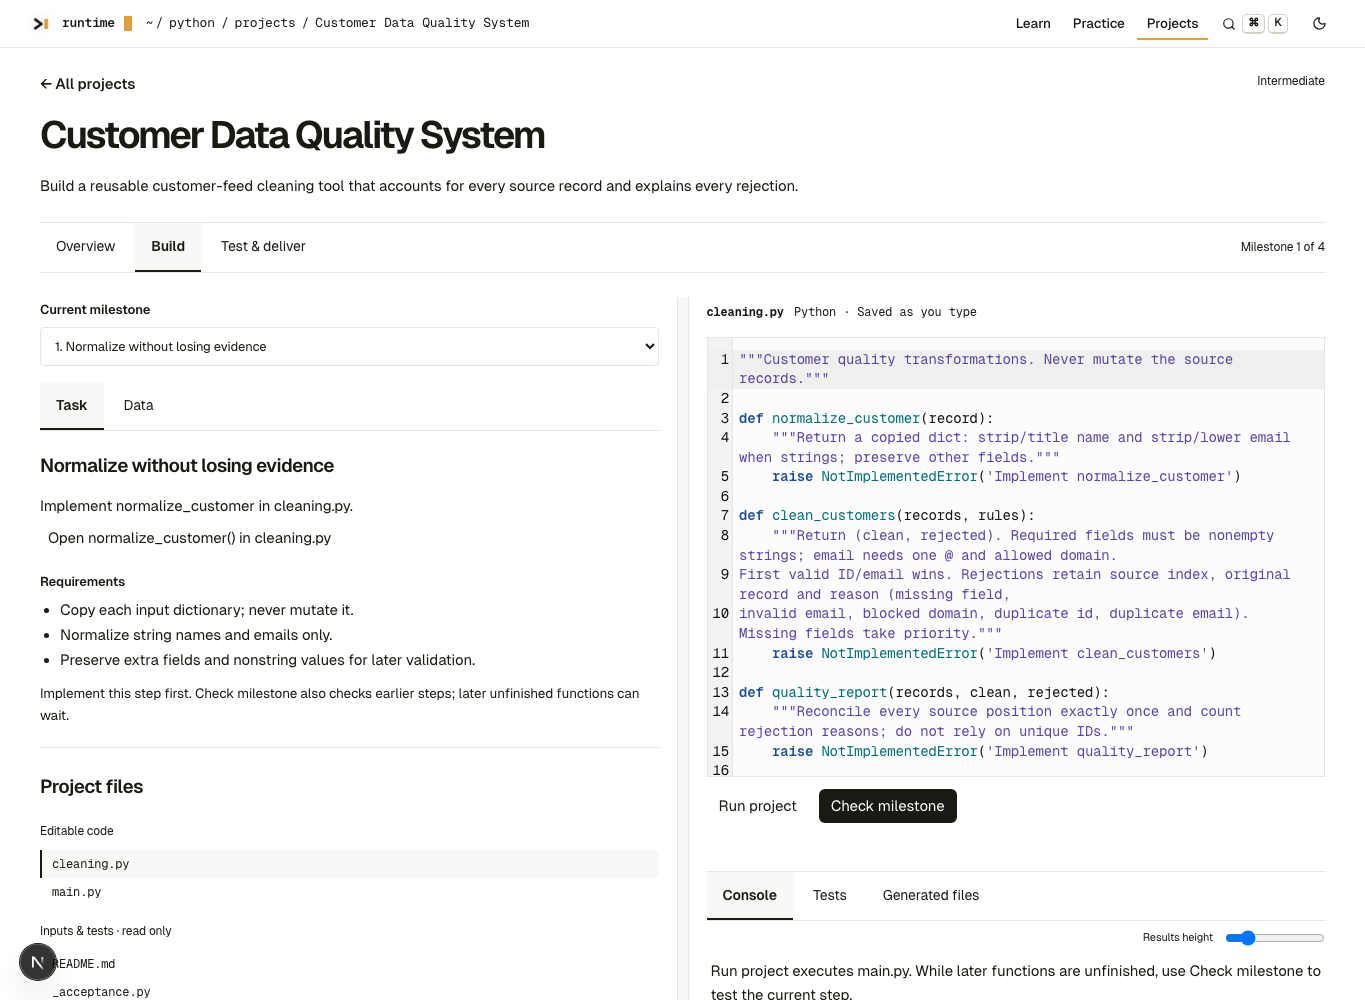
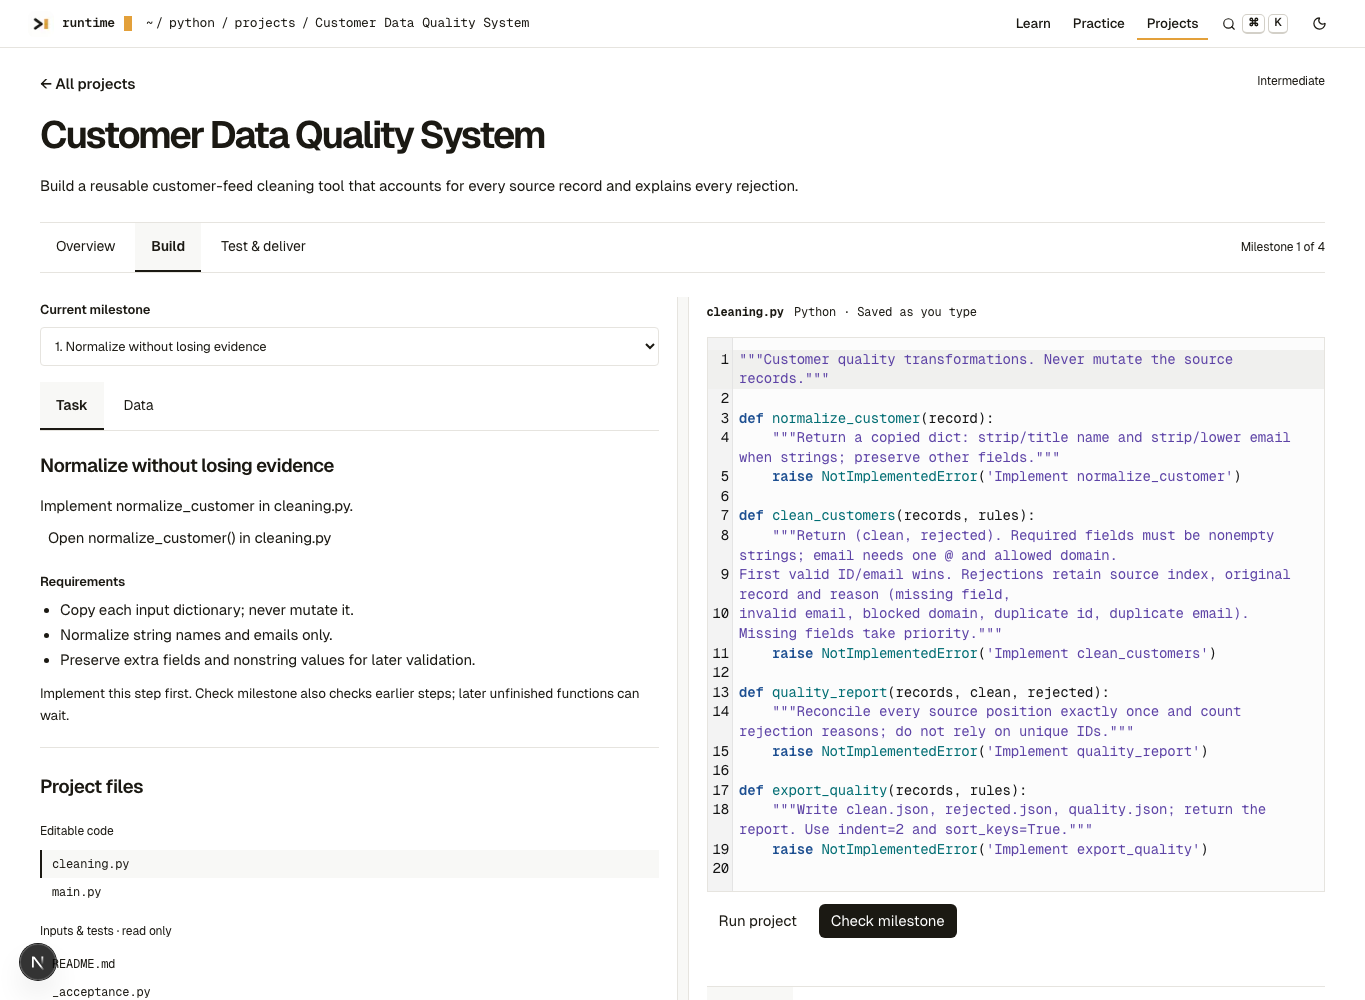
Let project editors grow naturally and remove redundant workspace controls

Changed region(s): [[0.5231, 0.775, 0.9538, 1.0]]

diff --git a/src/features/py/projects-v2/Workspace.tsx b/src/features/py/projects-v2/Workspace.tsx
@@ -24,7 +24,7 @@ export function ProjectWorkspace({project,initialStage}:{project:ProjectV2;initi
  const [runMode,setRunMode]=useState<'run'|'milestone'|'acceptance'>('run');
  const [output,setOutput]=useState<'console'|'tests'|'files'>('console');
  const [dataPath,setDataPath]=useState(project.datasets[0]?.path??'');
- const [paneWidth,setPaneWidth]=useState(50);const [resultsHeight,setResultsHeight]=useState(240);
+ const [paneWidth,setPaneWidth]=useState(50);
  const [focusRequest,setFocusRequest]=useState(0);
  function navigate(next:'overview'|'build'|'finish'){setStage(next);window.history.replaceState(null,'',`#${next}`);window.scrollTo(0,0);}
  useEffect(()=>{const hash=window.location.hash.slice(1);if(hash==='build'||hash==='finish')setStage(hash);else if(initialStage)setStage('build');},[initialStage]);
@@ -64,7 +64,7 @@ export function ProjectWorkspace({project,initialStage}:{project:ProjectV2;initi
  return <Shell subject="python" section="projects" path={[{label:'python',href:'/python'},{label:'projects',href:'/python/projects'},{label:project.title}]}>
  <div className="py-project-v2 pv-project-page">
   <header className="pv-header"><Link className="rx-link" href="/python/projects">← All projects</Link><span>{project.level}</span><h1>{project.title}</h1><p>{project.objective}</p></header>
-  <nav className="pv-stage-nav" aria-label="Project stages">{(['overview','build','finish'] as const).map(value=><button key={value} aria-current={stage===value?'page':undefined} onClick={()=>navigate(value)}>{value==='overview'?'Overview':value==='build'?'Build':'Test & deliver'}</button>)}<span>Milestone {draft.milestone+1} of {project.milestones.length}</span></nav>
+  <nav className="pv-stage-nav" aria-label="Project stages">{(['overview','build','finish'] as const).map(value=><button key={value} aria-current={stage===value?'page':undefined} onClick={()=>navigate(value)}>{value==='overview'?'Overview':value==='build'?'Build':'Test & deliver'}</button>)}{stage==='build'&&<span>Milestone {draft.milestone+1} of {project.milestones.length}</span>}</nav>
   {storageError&&<p className="pv-warning" role="alert">{storageError}</p>}
   {stage==='overview'&&<section className="pv-overview">
    <div className="pv-overview-context"><h2>The project</h2><p>{project.scenario}</p>
@@ -82,15 +82,14 @@ export function ProjectWorkspace({project,initialStage}:{project:ProjectV2;initi
     <div className="pv-tab-bar" role="group" aria-label="Task and data"><button aria-pressed={reference==='task'} onClick={()=>setReference('task')}>Task</button><button aria-pressed={reference==='data'} onClick={()=>setReference('data')}>Data</button></div>
     {reference==='task'?<section className="pv-task"><h2>{current.title}</h2><p>{current.objective}</p>{targetFile&&<button className="rx-btn" onClick={openFunction}>Open {targetFunction}() in {targetFile}</button>}<h3>Requirements</h3><ul>{current.requirements.map(r=><li key={r}>{r}</li>)}</ul><p className="rx-small">Implement this step first. Check milestone also checks earlier steps; later unfinished functions can wait.</p></section>:<section className="pv-inputs"><label htmlFor="project-data">Input file</label><select id="project-data" value={dataPath} onChange={e=>setDataPath(e.target.value)}>{project.datasets.map(d=><option key={d.path} value={d.path}>{d.path}</option>)}</select>{selectedData&&<><h2>{selectedData.path}</h2><p>{selectedData.purpose}</p><p className="rx-small">{selectedData.rows.toLocaleString()} records · {selectedData.format.toUpperCase()} · Fields: {selectedData.schema}</p><DataPreview dataset={selectedData}/><p className="rx-small">{selectedData.rows>5?'First 5 records shown.':'All records shown.'} Inputs are already available to your code.</p><button className="rx-btn" onClick={()=>setDraft(d=>({...d,selected:selectedData.path}))}>Open full input</button><button className="rx-btn" onClick={()=>downloadText(selectedData.path,project.files[selectedData.path])}>Download input</button></>}</section>}
     <section className="pv-files"><h2>Project files</h2><div className="pv-explorer" role="group" aria-label="File explorer"><div><p>Editable code</p>{Object.keys(draft.files).map(name=><button key={name} aria-pressed={draft.selected===name} onClick={()=>setDraft(d=>({...d,selected:name}))}>{name}</button>)}</div><div><p>Inputs & tests · read only</p>{Object.keys(project.files).filter(name=>name!=='_expected.json').map(name=><button key={name} aria-pressed={draft.selected===name} onClick={()=>setDraft(d=>({...d,selected:name}))}>{name}</button>)}</div></div></section>
-    <button className="rx-btn pv-finish-link" onClick={()=>navigate('finish')}>Go to Test & deliver</button>
    </aside>
    <div className="pv-divider" role="separator" aria-label="Resize task and editor columns" aria-orientation="vertical" aria-valuenow={paneWidth} aria-valuemin={25} aria-valuemax={55} tabIndex={0} onKeyDown={e=>{if(e.key==='ArrowLeft'||e.key==='ArrowRight'){e.preventDefault();setPaneWidth(v=>Math.max(25,Math.min(55,v+(e.key==='ArrowRight'?2:-2))));}}} onPointerDown={e=>{e.currentTarget.setPointerCapture(e.pointerId);}} onPointerMove={e=>{if(!e.currentTarget.hasPointerCapture(e.pointerId)||!layout.current)return;const box=layout.current.getBoundingClientRect();setPaneWidth(Math.max(25,Math.min(55,Math.round((e.clientX-box.left)/box.width*100))));}} onPointerUp={e=>e.currentTarget.releasePointerCapture(e.pointerId)}/>
    <section className="pv-work" aria-label="Project workspace">
     <div className="pv-file-head"><b>{draft.selected}</b><span>{editable?'Python · Saved as you type':'Read only · full file'}</span>{!editable&&<button className="rx-btn" onClick={()=>downloadText(draft.selected,text)}>Download full file</button>}</div>
-    {editable?<PyEditor ref={editor} key={draft.selected} value={text} onChange={value=>setDraft(d=>({...d,files:{...d.files,[d.selected]:value}}))} onRun={()=>execute('run')} onCheck={()=>execute('milestone')} label={`${draft.selected}, project Python editor`} height="440px"/>:<textarea className="pv-full-source" aria-label={`${draft.selected}, read-only file`} value={text} readOnly spellCheck={false}/>}
+    {editable?<PyEditor ref={editor} key={draft.selected} value={text} onChange={value=>setDraft(d=>({...d,files:{...d.files,[d.selected]:value}}))} onRun={()=>execute('run')} onCheck={()=>execute('milestone')} label={`${draft.selected}, project Python editor`} minHeight="320px"/>:<pre className="pv-full-source" role="textbox" aria-label={`${draft.selected}, read-only file`} aria-readonly="true" tabIndex={0}>{text}</pre>}
     <div className="pv-actions"><button className="rx-btn" disabled={busy} onClick={()=>execute('run')}>Run project</button><button className="rx-btn primary" disabled={busy} onClick={()=>execute('milestone')}>Check milestone</button></div>
     <p className="pv-status" role="status">{busy?'Running Python…':notice}{run&&stale?' Code changed since this run. Check again.':''}</p>
-    <section className="pv-output"><div className="pv-tab-bar" role="group" aria-label="Output views">{(['console','tests','files'] as const).map(value=><button key={value} aria-pressed={output===value} onClick={()=>setOutput(value)}>{value==='console'?'Console':value==='tests'?'Tests':'Generated files'}</button>)}</div><label className="pv-results-size">Results height<input aria-label="Results height" type="range" min="160" max="600" step="20" value={resultsHeight} onChange={e=>setResultsHeight(Number(e.target.value))}/></label><div className="pv-results" style={{height:resultsHeight}}>{output==='tests'?checks:output==='files'?artifacts:!run&&!busy?<p>Run project executes main.py. While later functions are unfinished, use Check milestone to test the current step.</p>:<ConsoleView busy={busy} live={[]} ran={run?{result:'files' in run.result?{...run.result,files:[]}:run.result,code:runSnapshot}:null} edited={stale}/>}</div></section>
+    <section className="pv-output"><div className="pv-tab-bar" role="group" aria-label="Output views">{(['console','tests','files'] as const).map(value=><button key={value} aria-pressed={output===value} onClick={()=>setOutput(value)}>{value==='console'?'Console':value==='tests'?'Tests':'Generated files'}</button>)}</div><div className="pv-results">{output==='tests'?checks:output==='files'?artifacts:!run&&!busy?<p>Run project executes main.py. While later functions are unfinished, use Check milestone to test the current step.</p>:<ConsoleView busy={busy} live={[]} ran={run?{result:'files' in run.result?{...run.result,files:[]}:run.result,code:runSnapshot}:null} edited={stale}/>}</div></section>
    </section>
   </div>}
   {stage==='finish'&&<section className="pv-finish"><h2>Test & deliver</h2><p>Run every acceptance check against your current files, then download the program with its generated outputs.</p><div className="pv-actions"><button className="rx-btn primary" disabled={busy} onClick={()=>execute('acceptance')}>Check complete project</button><button className="rx-btn" onClick={()=>navigate('build')}>Return to Build</button></div><p role="status">{busy?'Running Python…':notice}</p><h3>{complete?'Ready to deliver':'Still to do'}</h3>{complete?<p>Current code passed every check and all required files are available.</p>:<ul>{blockers.map(message=><li key={message}>{message}</li>)}</ul>}<section className="pv-output"><h2>Acceptance results</h2>{checks}</section><h2>Generated files</h2>{draft.evidence&&<p className="rx-small">Captured by the last complete-project check{draft.evidence.snapshot!==snapshot(draft.files)?"; your code has changed since then":""}.</p>}{artifacts}

diff --git a/src/features/py/projects-v2/projects.css b/src/features/py/projects-v2/projects.css
@@ -92,7 +92,7 @@
 .pv-overview > .rx-btn { margin-top:16px; }
 .pv-build { display:grid; grid-template-columns:minmax(0,var(--pv-task-width)) 12px minmax(0,1fr); align-items:start; }
 .pv-build .pv-brief { padding:0 18px 0 0; border:0; }
-.pv-build .pv-work { position:sticky; top:64px; min-width:0; padding:0 0 0 18px; }
+.pv-build .pv-work { position:static; min-width:0; padding:0 0 0 18px; }
 .pv-build select { display:block; width:100%; padding:10px; border:1px solid var(--rx-line); border-radius:4px; background:var(--rx-bg); font-size:13px; color:var(--rx-ink); margin:6px 0 16px; }
 .pv-milestone-label { font-weight:600; font-size:13px; }
 .pv-build .pv-task { padding:0; border:0; margin:20px 0; }
@@ -108,15 +108,12 @@
 .pv-build .pv-file-head { margin:0; min-height:40px; padding:0 0 10px; border:0; }
 .pv-divider { height:100%; min-height:600px; cursor:col-resize; touch-action:none; border-left:1px solid var(--rx-line); border-right:1px solid var(--rx-line); background:var(--rx-cell); }
 .pv-divider:focus-visible { outline:2px solid var(--rx-ink); outline-offset:2px; }
-.py-project-v2 .pv-build .cm-editor { height:440px; }
-.py-project-v2 .pv-build .cm-scroller { height:100%; overflow:auto; }
-.py-project-v2 .pv-full-source { height:440px; resize:vertical; overflow:auto; white-space:pre; font:12px/1.6 var(--rx-mono); }
+.py-project-v2 .pv-build .cm-editor { height:auto; max-height:none; }
+.py-project-v2 .pv-build .cm-scroller { height:auto; max-height:none; overflow:visible; }
+.py-project-v2 .pv-full-source { margin:0; padding:12px; border:1px solid var(--rx-line); height:auto; overflow:visible; white-space:pre-wrap; overflow-wrap:anywhere; font:12px/1.6 var(--rx-mono); }
 .pv-build .pv-output { margin-top:0; padding-top:0; }
-.pv-results { overflow:auto; min-height:160px; padding:12px 4px; }
-.pv-results-size { display:flex; justify-content:flex-end; align-items:center; gap:12px; font-size:11px; color:var(--rx-dim); padding-top:8px; }
-.pv-results-size input { width:100px; }
+.pv-results { height:auto; overflow:visible; padding:12px 4px; }
 .pv-status { font-size:12px; margin:4px 0 12px; min-height:20px; }
-.pv-finish-link { margin:18px 0; }
 .pv-finish .pv-output { margin-bottom:24px; }
 .pv-finish .pv-artifacts { margin-bottom:20px; }
 @media(max-width:700px){
@@ -129,7 +126,6 @@
  .pv-build .pv-explorer p { width:100%; }
  .pv-build .pv-explorer button { width:auto; border:1px solid var(--rx-line); }
  .pv-tab-bar button,.pv-stage-nav button { padding:10px; }
- .py-project-v2 .pv-build .cm-editor,.py-project-v2 .pv-full-source { height:360px; }
 }
 .pv-mobile-nav { display:none; }
 @media(max-width:700px){

diff --git a/docs/python/projects-v2/REPORT.md b/docs/python/projects-v2/REPORT.md
@@ -302,3 +302,7 @@ The shared workspace now separates Overview, Build, and Test & deliver. Overview
 Build contains the active milestone, its complete requirements, a function-opening shortcut, persistent file navigation and a dedicated Data view. Input files can be read in full without editing them. Code, console, tests and generated files share the working pane, with adjustable results height. Project acceptance and delivery requirements live in Test & deliver. Completion blockers identify missing checks, stale code, missing artifacts and missing interpretation. The four Customer Data Quality milestones, all other project content, execution engine, grading and storage format are unchanged.
 
 Verification: application TypeScript passed; Chromium Customer Data Quality and Marketplace Analytics passed full execution, downloads, saved progress, reload, and incorrect-submission checks through the new stages. The six-project layout test checks exact equal default columns, full-width reading/delivery stages, file navigation, resizing, mobile shortcuts and responsive sizing. Representative Axe checks found no serious or critical workspace issues.
+
+## Editor scrolling correction
+
+Removed fixed editor/output heights, the Results height slider and the duplicate Go to Test & deliver button. Code and read-only source views expand with their contents, and results occupy only their content height. The page provides scrolling rather than nested editor/results scrollbars. The editor retains a modest minimum writing area for short files. Milestone count is shown only in Build; Overview and Test & deliver omit it. Layout verification now checks these conditions alongside the existing equal-column and responsive checks.
